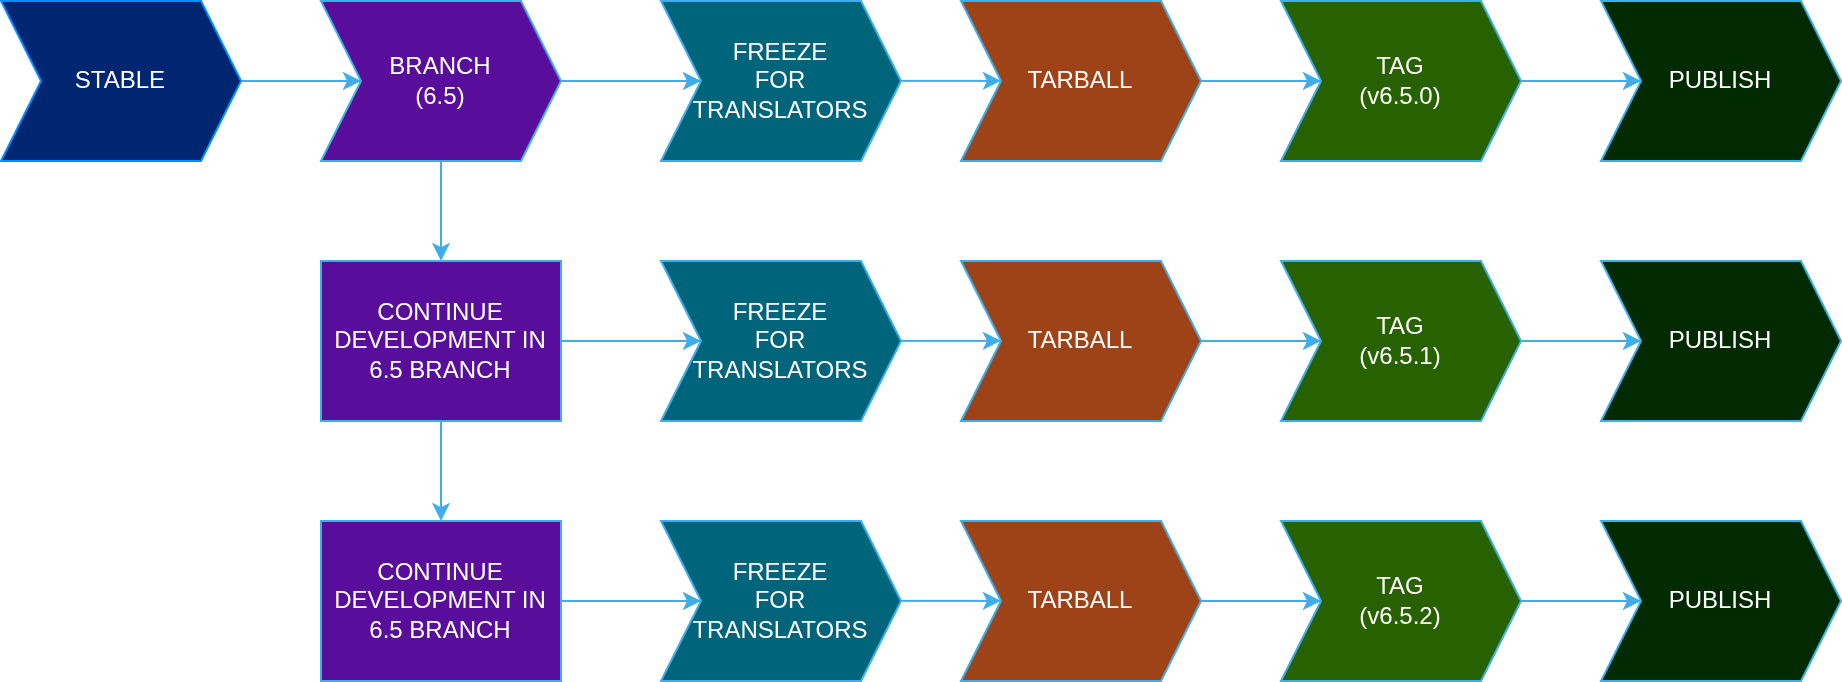
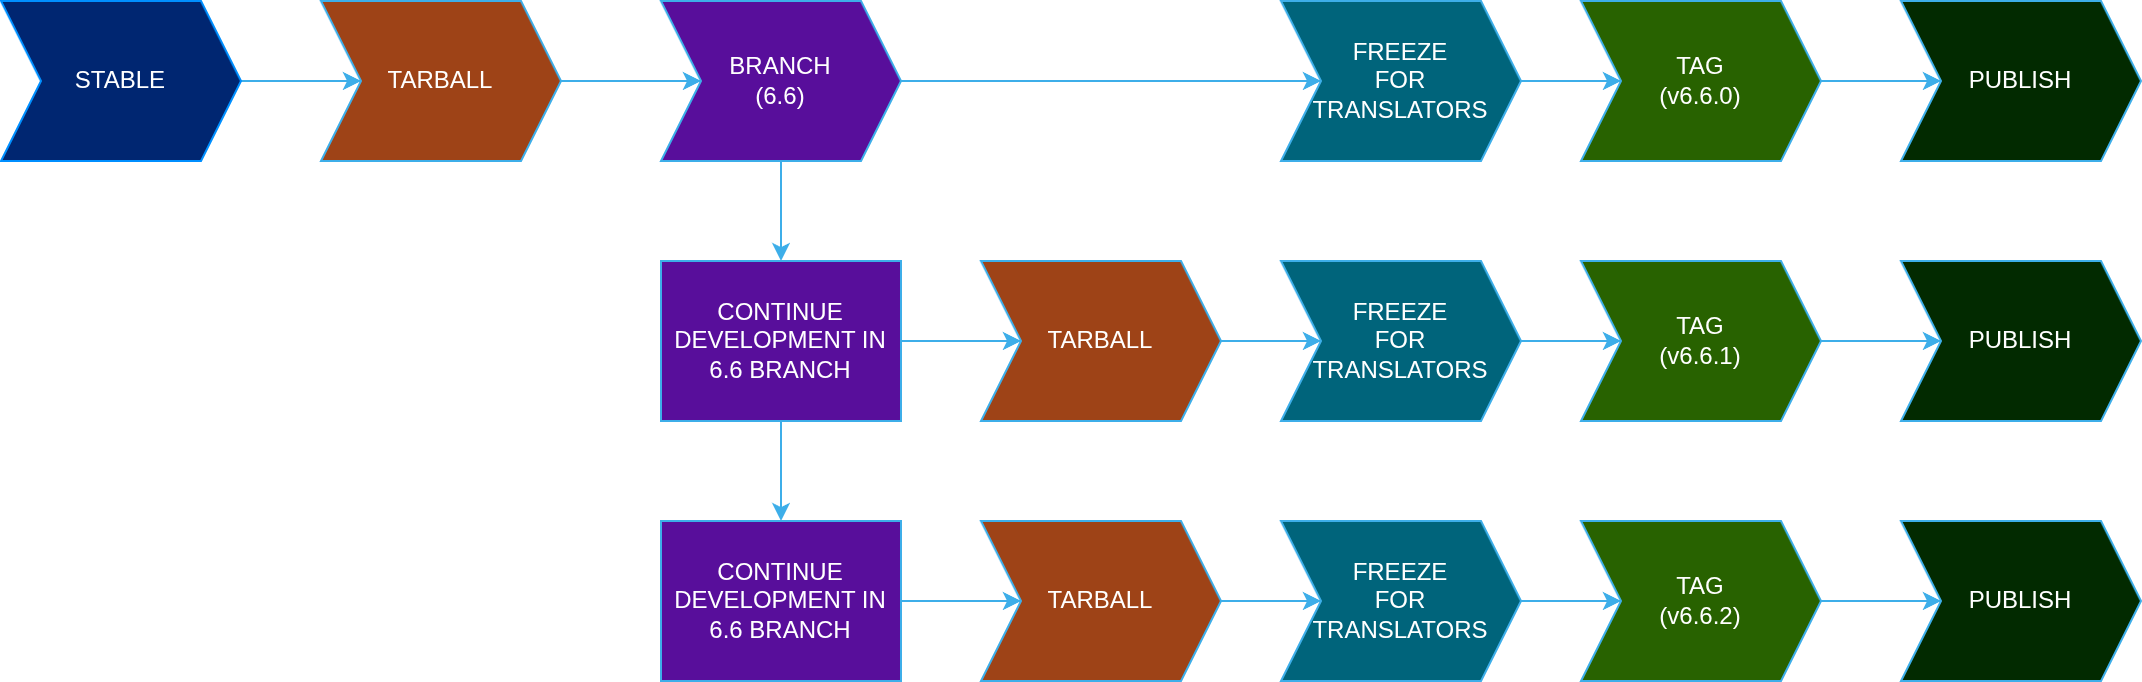
Fix order in lifecycle page

diff --git a/content/docs/getting-started/add-project/lifecycle/index.md b/content/docs/getting-started/add-project/lifecycle/index.md
@@ -22,17 +22,21 @@ Before passing KDE Review, a project is allowed to release their software in the
 
 In practice, this means that the tarballs will be stored in a `stable/` or `unstable/` folder under <https://download.kde.org>.
 
-When preparing the project for release, you will need to make changes in code to reflect a specific version, branch and tag it, and then create a tarball containing the source code, and move it to a place where downstreams (like Linux distributions) can access it.
+When preparing the project for release, you will need to make changes in code to reflect a specific version, update repo-metadata to point to the branches that will be used for tarballing, create the tarball containing the source code, branch (if you're planning to make point releases), tag it, and then move it to a place where downstreams (like Linux distributions) can access it.
+
+The first step you must always do is to update [repo-metadata](https://invent.kde.org/sysadmin/repo-metadata) to point to the branches you will be using for the release under `projects-invent/yourproject/i18n.json`.
 
 Stable releases require using a versioned tag such as `v6.0.0`, but unstable releases can be tagged from master. Tags are, in this context, just an immutable pointer or snapshot of a branch/revision used for releases.
 
-When preparing for a stable release, you would create a new branch matching `$MAJOR.$MINOR`, such as `6.0` (alternatively: `release/6.0`), and then tag it as `v6.0.0` to create a tarball. This matches the general development workflow: after creating the `v6.0.0` tarball, you may continue to work on the `6.0` branch, and in the future make *point releases* such as `v6.0.1` and `v6.0.2`. This allows you to use the `master` branch to develop for the next version (say, `6.1`) while using the `6.0` branch to iterate on the current release.
+When preparing for a stable release, you may create a new branch matching `$MAJOR.$MINOR`, such as `6.0` (alternatively: `release/6.0`), and then create a tarball that will ultimately match the `v6.0.0` tag. This matches the general development workflow: after creating the `v6.0.0` release, you may continue to work on the `6.0` branch, and in the future make *point releases* such as `v6.0.1` and `v6.0.2`. This allows you to use the `master` branch to develop for the next version (say, `6.1`) while using the `6.0` branch to iterate on the current release.
 
-Unstable releases on the other hand do not require branching since you can use snapshots of the master branch to create new tags and subsequently tarballs. Tags should use `.70`, `.80` or `.90` at the end of the versioning name for alpha, beta and release candidates, respectively. For example: `v6.0.80`.
+Unstable releases on the other hand do not require branching since you can use snapshots of the master branch to create a tarball and matching tag. Tags typically use `.70`, `.80` or `.90` at the end of the versioning name for alpha, beta and release candidates, respectively. For example: `v6.0.80`. Some projects might use `.80` for alpha and `.90` for beta.
 
-After branching a stable release, you *will* have to perform a feature freeze on the branch (as above, `6.0`). Additionally, because your project will ship translations, you will have to perform a string freeze, that is, making no changes to any translatable strings. You *will* have to update [repo-metadata](https://invent.kde.org/sysadmin/repo-metadata) by setting the "stable i18n branch" to the stable branch (`6.0`). Send an email to the KDE i18n-doc mailing list <kde-i18n-doc@kde.org> notifying translators of the string freeze. This is to ensure that translators have some time to localize your software before release. If you do need a string changed, ask the translators for a string-freeze exception.
+Branching is an optional step when making stable releases. You should branch when you effectively intend to make new point releases from a stable branch. If your master branch doesn't have much feature development, you might prefer to follow the same steps used for unstable releases, that is, use the master branch to create new tags.
 
-If the release is going to be unstable, the string freeze (and all pertinent steps) may be performed on the master branch as well until the day of release.
+After preparations for a stable release are done, you *will* have to perform a feature freeze on the desired branch (if making point releases, then `6.0`, if not then `master`). Additionally, because your project will ship translations, you will have to perform a string freeze, that is, making no changes to any translatable strings. Make sure that the `i18n.json` file in [repo-metadata](https://invent.kde.org/sysadmin/repo-metadata) points to the corrects branches. Send an email to the KDE i18n-doc mailing list <kde-i18n-doc@kde.org> notifying translators of the string freeze. This is to ensure that translators have some time to localize your software before release. If you do need a string changed, ask the translators for a string-freeze exception.
+
+If the release is going to be unstable or you do not plan to make point releases, the string freeze (and all pertinent steps) may be performed on the master branch as well until the day of release.
 
 Then, you create the tarball, which is simply an archive containing the source code matching the tag, used by downstreams to reproducibly build your software. To create the tarball, you will need to generate your own GPG key, which can be easily done with [Kleopatra](https://apps.kde.org/kleopatra/). After creating the tarball, some testing is required before creating the tag and moving it to the right place.
 
@@ -44,8 +48,14 @@ Suppose you plan to make multiple unstable releases that correspond to the beta 
 
 {{< figure src="unstable-lifecycle.png" >}}
 
-Now that you've gotten some unstable releases for your users to test, you want to make a stable 6.5.0 release and plan to create two point releases, namely 6.5.1 and 6.5.2:
+Now that you've gotten some unstable releases for your users to test, you want to make a stable 6.5.0 release and plan to create just one point release, namely 6.5.1. You don't need the complexity of a stable branch, so you can tag from master:
+
+{{< figure src="stable-lifecycle-tagged-from-master.png" >}}
+
+However, you realise that the next 6.6.0 release will require many point releases (here, just two for demonstrative purposes), and your project is seeing more feature development in the master branch. So, you want to keep developing on the master branch (thinking ahead in preparation for the 6.7 release) and have a separate, stable branch just for 6.6 point releases.
+
+The whole process should look like this:
 
 {{< figure src="stable-lifecycle.png" >}}
 
-Because of this release workflow, you are now able to work on the master branch for the development of the next 6.6.0 release and continue shipping point releases for your users of the 6.5 branch.
+Because of this release workflow, you are now able to work on the master branch for the development of the next 6.7.0 release and continue shipping point releases for your users of the 6.6 branch.
